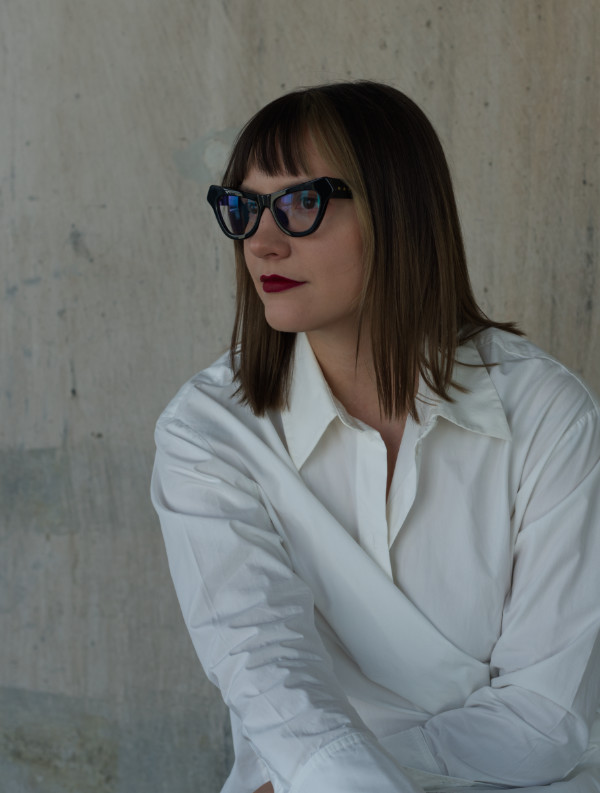
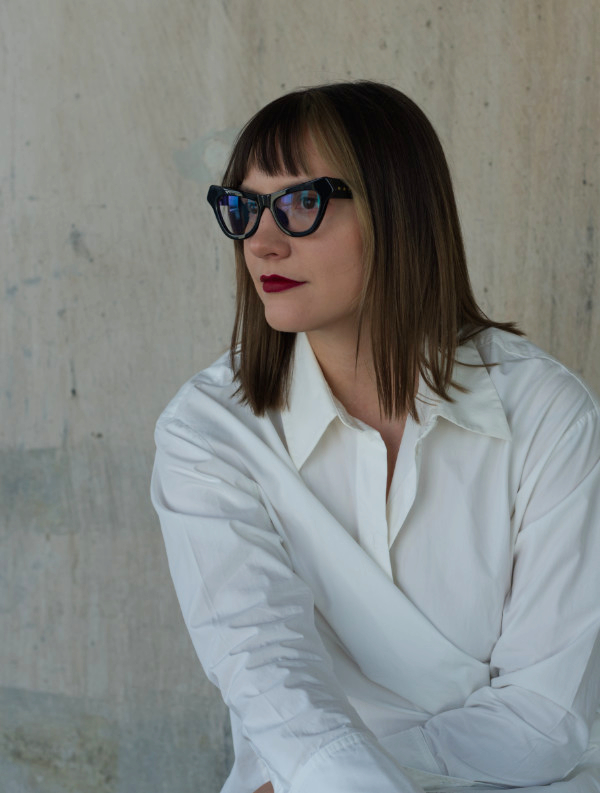
update

diff --git a/src/styles/global.css b/src/styles/global.css
@@ -59,13 +59,17 @@
 		background-size: 16px 16px;
 	}
 	.prose {
-    font-family: "Sofia Sans", sans-serif;
-    font-weight: 300;
-}
+    	font-family: "Sofia Sans", sans-serif;
+    	font-weight: 300;
+	}
+
 
 	a {
 		color: inherit;
-		text-decoration: none;
+		text-decoration: underline;
+	}
+	.prose a, p a {
+    text-decoration: underline;
 	}
 
 	time {
@@ -163,6 +167,13 @@
 			padding-left: calc(var(--grid-cell) / 1);
 			padding-right: calc(var(--grid-cell) / 1);
 		}
+		.content-shell {
+        padding-left: 1.25rem;
+        padding-right: 1.25rem;
+    	}
+   		 .prose h2 { margin-top: 2rem; margin-bottom: 1.5rem; }
+   		 .prose h3 { margin-top: 1.5rem; margin-bottom: 1rem; }
+
 	}
 
 	.hero {
